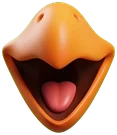
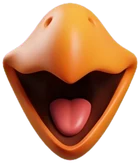
sandbox(art): feather edge fix - key-colour unmix of edge pixels, soft alpha, 60% export (owner note 2)

diff --git a/sandbox/art/cut_parts.py b/sandbox/art/cut_parts.py
@@ -24,22 +24,45 @@ LAYOUT = {
 }
 
 
-def chroma_alpha(rgb):
-    """alpha 0..1 from green dominance. rgb float32 0..255"""
+def key_colour(rgb):
+    """median colour of the clearly-background pixels (robust key estimate)"""
     r, g, b = rgb[..., 0], rgb[..., 1], rgb[..., 2]
-    dom = g - np.maximum(r, b)              # how much greener than the other channels
-    # dom > 60 -> background, dom < 10 -> foreground, soft ramp between
-    a = 1.0 - np.clip((dom - 10.0) / 50.0, 0.0, 1.0)
+    mask = (g - np.maximum(r, b)) > 90
+    if mask.sum() < 50: return np.array([0.0, 255.0, 0.0], dtype=np.float32)
+    return np.median(rgb[mask], axis=0).astype(np.float32)
+
+
+def chroma_alpha(rgb):
+    """alpha 0..1 from green dominance with a soft ramp (anti-aliased edges)"""
+    r, g, b = rgb[..., 0], rgb[..., 1], rgb[..., 2]
+    dom = g - np.maximum(r, b)
+    a = 1.0 - np.clip((dom - 8.0) / 45.0, 0.0, 1.0)
     return a
 
 
-def despill(rgb, alpha):
-    r, g, b = rgb[..., 0], rgb[..., 1], rgb[..., 2]
-    lim = np.maximum(r, b)
-    spill = np.clip(g - lim, 0, None)
-    g2 = g - spill * (1.0 - alpha * 0.2)     # pull green down to the max of r/b on semi-transparent edges
-    out = rgb.copy(); out[..., 1] = g2
-    return out
+def unmix(rgb, alpha, key):
+    """Recover the true foreground colour on semi-transparent edge pixels.
+    Each edge pixel is a blend  px = a*fg + (1-a)*key  ->  fg = (px - (1-a)*key) / a.
+    This removes the dark/green rim that a plain despill leaves on feather tips."""
+    a = np.clip(alpha, 0.06, 1.0)[..., None]
+    fg = (rgb - (1.0 - a) * key) / a
+    fg = np.where(alpha[..., None] < 1.0, fg, rgb)
+    # residual spill guard: green never above the max of red/blue on edge pixels
+    lim = np.maximum(fg[..., 0], fg[..., 2])
+    fg[..., 1] = np.where(alpha < 1.0, np.minimum(fg[..., 1], lim + 6), fg[..., 1])
+    return np.clip(fg, 0, 255)
+
+
+def smooth_alpha(alpha):
+    """tiny blur + slight erosion of the ramp so the silhouette reads as a soft painted edge"""
+    from PIL import ImageFilter
+    im = Image.fromarray((alpha * 255).astype(np.uint8), 'L').filter(ImageFilter.GaussianBlur(0.7))
+    a = np.asarray(im).astype(np.float32) / 255.0
+    return np.clip((a - 0.10) / 0.90, 0.0, 1.0)
+
+
+def despill(rgb, alpha):  # kept for backward compatibility of the module API
+    return rgb
 
 
 def trim(rgba, pad=4):
@@ -73,13 +96,15 @@ def process(name, target_h=None):
     total = 0
     for part, cell in zip(LAYOUT[name], cells):
         rgb = np.asarray(cell).astype(np.float32)
+        key = key_colour(rgb)
         a = chroma_alpha(rgb)
-        rgb = despill(rgb, a)
+        rgb = unmix(rgb, a, key)
+        a = smooth_alpha(a)
         rgba = np.dstack([np.clip(rgb, 0, 255), a * 255.0]).astype(np.uint8)
         rgba, (ox, oy) = trim(rgba)
         im = Image.fromarray(rgba, 'RGBA')
         # downscale for the web budget: parts are authored at ~680 px per cell
-        scale = 0.5
+        scale = 0.6
         im = im.resize((max(1, int(im.width * scale)), max(1, int(im.height * scale))), Image.LANCZOS)
         path = os.path.join(out_dir, f'{part}.webp')
         im.save(path, 'WEBP', quality=88, method=6)
